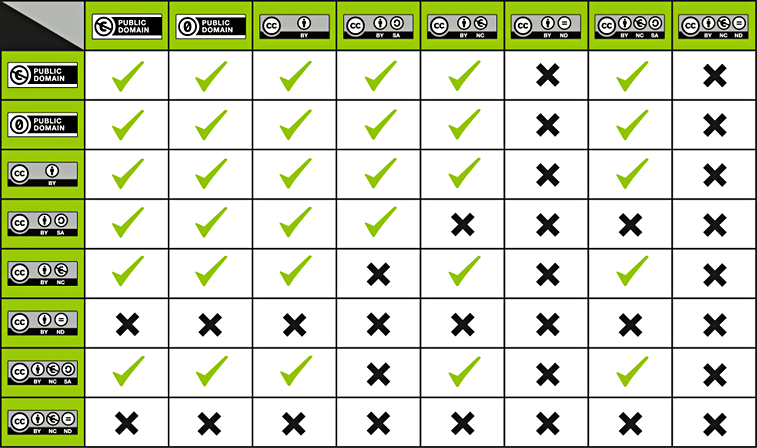
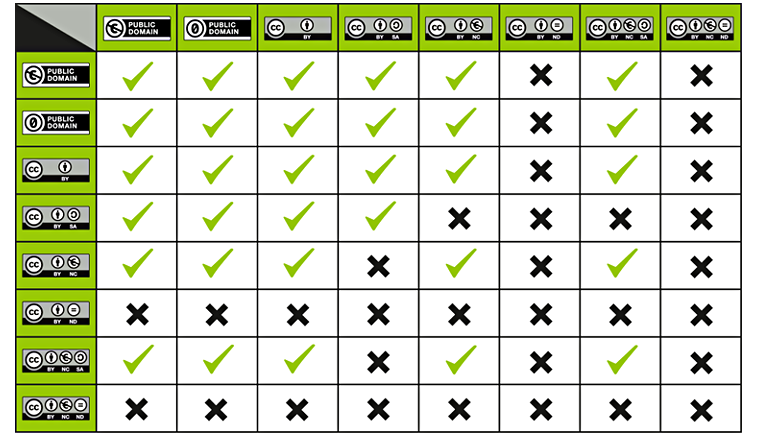
completed introduction

diff --git a/src/main/resources/templates/index.html b/src/main/resources/templates/index.html
@@ -7,27 +7,64 @@
 
 	<div class="container-lg mt-3">
 
-		<h3>Relicensing Combined Datasets</h3>
+		<h3>Relicensing Combined Datasets (ReCoDa)</h3>
+
+		<h4 class="mt-4">Problem: Combination of datasets with different
+			licensing</h4>
+
+		<p>
+			With the increasing spread of Open Data and metadata portals (e.g. <a
+				target="_blank" href="https://dice-research.org/OPAL">OPAL</a>),
+			open datasets are available for use and combination. Since datasets
+			can be licensed under different conditions, the combination of
+			datasets and the selection of an appropriate license for
+			republication can become complicated. Various approaches have emerged
+			that allow, for example, a pairwise comparison of licenses. Although
+			the approaches are helpful, in many cases they do not support the
+			comparison of a combination of multiple licenses.
+		</p>
 
 		<div class="text-center">
 			<img src="/Creative-Commons-License-Compatibility-Chart.png"
-				class="img-fluid" alt="Creative Commons License Compatibility Chart">
-			<br />Image source: <a target="_blank"
-				href="https://wiki.creativecommons.org/index.php?title=Wiki/cc_license_compatibility&oldid=70058">wiki.creativecommons.org</a>
+				class="img-fluid" alt="Creative Commons License Compatibility Chart"
+				width="757"> <br />Creative Commons License Compatibility
+			Chart (<a target="_blank"
+				href="https://wiki.creativecommons.org/index.php?title=Wiki/cc_license_compatibility&oldid=70058">source</a>)
 		</div>
+
+		<h4 class="mt-4">Solution: Comparison of license attributes</h4>
+
+		<p>Licenses can be specified by their attributes. Attributes types
+			are, for instance, permissions, requirements or prohibitions. ReCoDa
+			selects the most restrictive license attributes and compares the
+			result with other licenses. This allows to compute compatible
+			licenses for republishing and relicensing combined datasets.</p>
 
 		<div class="text-center">
 			<img src="/ReCoDa-License-Attributes.png" class="img-fluid"
-				alt="ReCoDa License Attributes">
+				alt="ReCoDa License Attributes" width="757">
 		</div>
 
 		<div class="text-center">
 			<img src="/ReCoDa-Compatible-Licenses.png" class="img-fluid"
-				alt="ReCoDa Compatible Licenses">
+				alt="ReCoDa Compatible Licenses" width="757">
 		</div>
 
+		<h4 class="mt-4">Try the demo</h4>
+
+		<p>The ReCoDa demo consits of 3 steps. First, a knowledge base has
+			to be selected. Knowledge bases contain licenses specified by the
+			same attributes. In the second step, licenses to combine have to be
+			chosen. Finally, you can select one of the computed compatible
+			licenses.</p>
+
+		<div class="text-center mb-5">
+			<a class="btn btn-success" href="/demo/knowledge-bases" role="button">Get
+				compatible licenses</a>
+		</div>
 
 	</div>
 
+	<div th:replace="fragments/template.html :: footer"></div>
 </body>
 </html>

diff --git a/src/main/resources/templates/about.html b/src/main/resources/templates/about.html
@@ -18,10 +18,18 @@
 				International Conference on Semantic Computing (ICSC2021)</a>.
 		</p>
 
-		<h4>Code and data</h4>
+		<h4>Code and Data</h4>
 		<p>
-			The Code and data are availabe at <a target="_blank"
+			The Code and Data are availabe at <a target="_blank"
 				href="https://github.com/dice-group/ReCoDa">https://github.com/dice-group/ReCoDa</a>.
+			The generated knowledge bases are based on <a target="_blank"
+				href="https://github.com/creativecommons/cc.licenserdf">cc.licenserdf</a>
+			(GitHub), the Creative Commons <a target="_blank"
+				href="https://wiki.creativecommons.org/wiki/Wiki/cc_license_compatibility">License
+				Compatibility Chart </a> (Wiki) and the European Data Portal <a
+				target="_blank"
+				href="https://www.europeandataportal.eu/sites/default/files/edp-licence-compatibility-published_v1_0.xlsx">Licence
+				Compatibility Matrix</a> (XLSX file).
 		</p>
 
 		<h4>Credits</h4>
@@ -43,5 +51,6 @@
 		</p>
 	</div>
 
+	<div th:replace="fragments/template.html :: footer"></div>
 </body>
 </html>

diff --git a/src/main/resources/templates/fragments/template.html b/src/main/resources/templates/fragments/template.html
@@ -116,5 +116,7 @@
 
 	</div>
 
+	<div class="container-lg mt-5 mb-0 text-secondary" th:fragment="footer">Notice:
+		No warranty. Please verify licenses before use.</div>
 </body>
 </html>

diff --git a/src/main/resources/templates/compatible-licenses.html b/src/main/resources/templates/compatible-licenses.html
@@ -48,5 +48,6 @@
 
 	<div th:replace="fragments/template.html :: attribute-legend" />
 
+	<div th:replace="fragments/template.html :: footer"></div>
 </body>
 </html>

diff --git a/src/main/resources/templates/knowledge-bases.html b/src/main/resources/templates/knowledge-bases.html
@@ -40,5 +40,6 @@
 
 	<div th:replace="fragments/template.html :: attribute-legend" />
 
+	<div th:replace="fragments/template.html :: footer"></div>
 </body>
 </html>

diff --git a/src/main/resources/templates/licenses.html b/src/main/resources/templates/licenses.html
@@ -51,5 +51,6 @@
 
 	<div th:replace="fragments/template.html :: attribute-legend" />
 
+	<div th:replace="fragments/template.html :: footer"></div>
 </body>
 </html>

diff --git a/src/main/resources/templates/webservices.html b/src/main/resources/templates/webservices.html
@@ -61,5 +61,6 @@
 		</div>
 	</div>
 
+	<div th:replace="fragments/template.html :: footer"></div>
 </body>
 </html>
